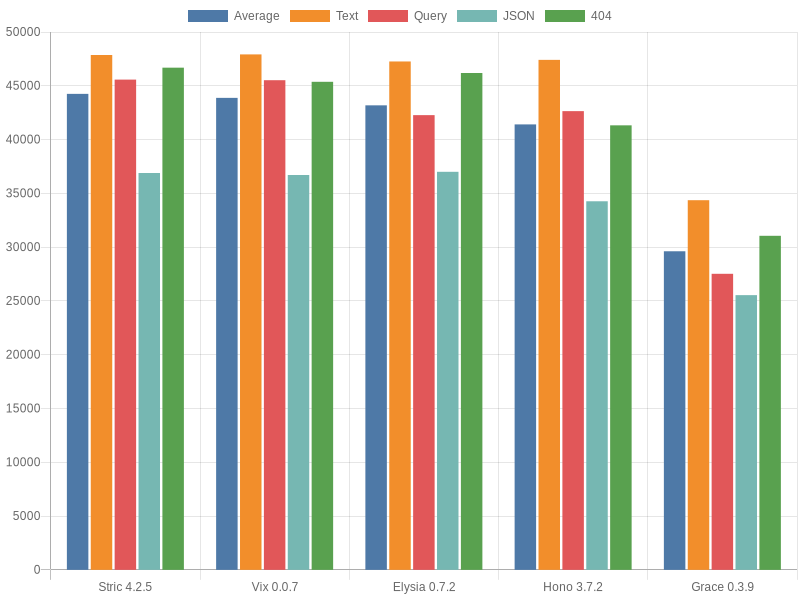
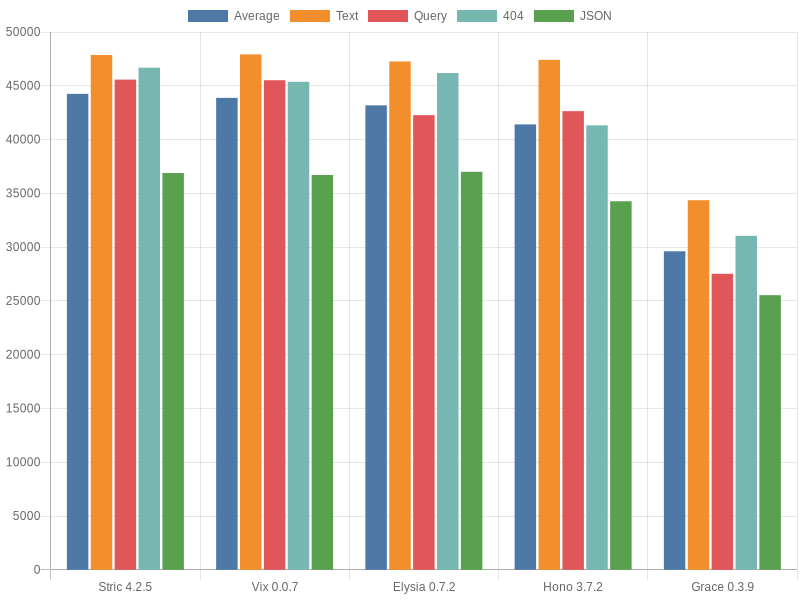
Update

diff --git a/lib/utils/chart.ts b/lib/utils/chart.ts
@@ -27,13 +27,13 @@ export function render(output: string, result: typeof import('../../results/data
                     data: result.map(v => v.results[1])
                 },
                 {
+                    label: '404',
+                    data: result.map(v => v.results[2])
+                },
+                {
                     label: 'JSON',
                     data: result.map(v => v.results[3])
                 },
-                {
-                    label: '404',
-                    data: result.map(v => v.results[2])
-                }
             ]
         }
     });
